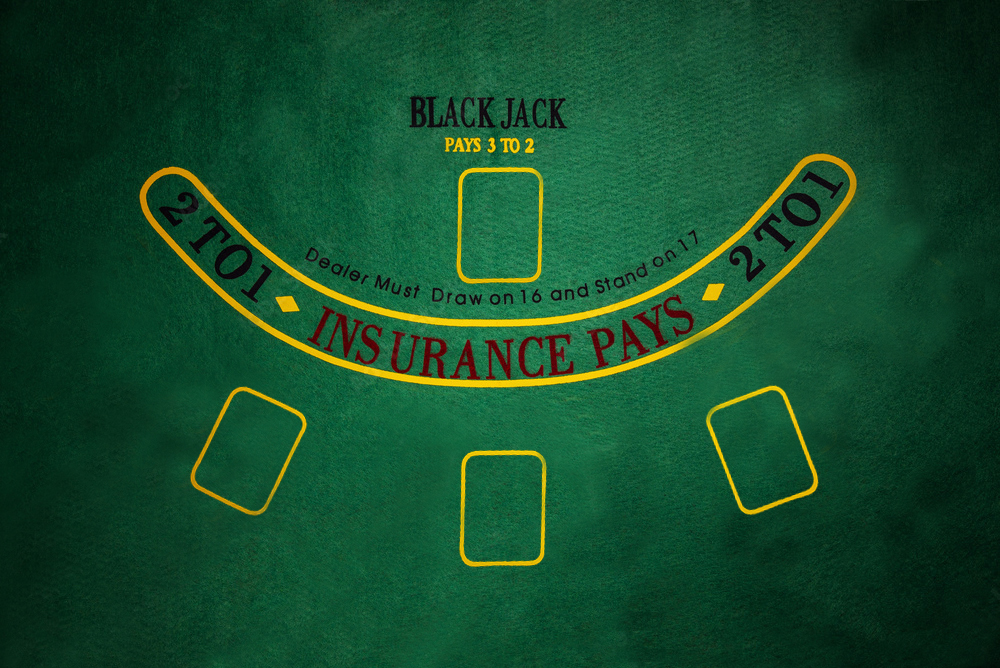
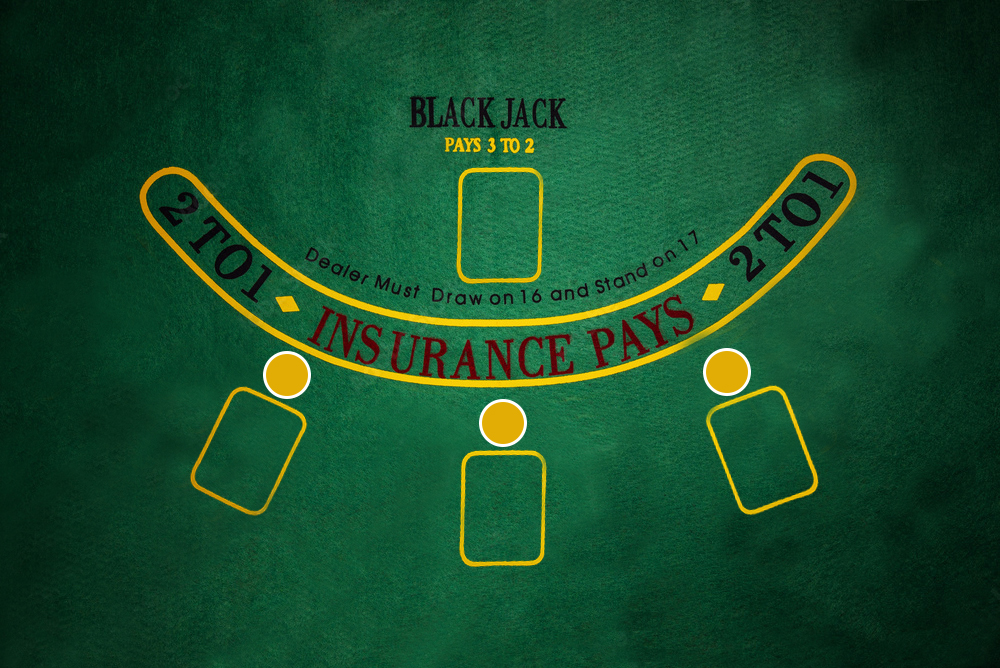
se comienza el sistema de apuestas

Changed region(s): [[0.682, 0.509, 0.775, 0.5988], [0.465, 0.5988, 0.527, 0.6886], [0.248, 0.509, 0.31, 0.5988]]

diff --git a/js/clases.js b/js/clases.js
@@ -70,10 +70,23 @@ class Carta{
         }
         
         girar(){
-            if(this.cara==false){
+            if(this.cara==true){
+            this.cara=false
+            let elemento=document.getElementById(this.id)
+            elemento.style.backgroundImage=`url(${this.srcDorso})`
+            elemento.classList.add("animate__animated")
+            elemento.classList.add("animate__flip")
+            setTimeout(() => {elemento.classList.remove("animate__animated")
+                              elemento.classList.remove("animate__flip")}, 1500);
+              }
+            else if(this.cara==false){
             this.cara=true
-            }
-            else if(this.cara==true){this.cara=false
+            let elemento=document.getElementById(this.id)
+            elemento.style.backgroundImage=`url(${this.srcImagen})`
+            elemento.classList.add("animate__animated")
+            elemento.classList.add("animate__flip")
+            setTimeout(() => {elemento.classList.remove("animate__animated")
+                              elemento.classList.remove("animate__flip")}, 1500);
             }
         }
         }
@@ -84,7 +97,7 @@ class Carta{
     this.manos=[new Mano(1),new Mano(2),new Mano(3),new Mano(4)]
     
     }
-        entregarCarta(mano,baraja){
+        entregarCarta(mano,baraja,cara){
             if(baraja.cartas.length>0){
             let nCartas
             let div
@@ -115,13 +128,22 @@ class Carta{
                }
 
                     let nuevoDiv=document.createElement("div")
-                    nuevoDiv.style.backgroundImage=`url(${nuevaCarta.srcImagen})`
+                    nuevoDiv.setAttribute("id",`${nuevaCarta.id}`)
+                    if(cara){
+                        nuevoDiv.style.backgroundImage=`url(${nuevaCarta.srcImagen})`       
+                    }else if(!cara){
+                        nuevaCarta.cara=false
+                        nuevoDiv.style.backgroundImage=`url(${nuevaCarta.srcDorso})`
+                    }
+                    
                     
                     if(mano==1){
                        nCartas=this.manos[0].cartas.length
                        nuevoDiv.style.left=`${(nCartas-1)*30}%`
                        nuevoDiv.classList.add("animate__animated")    // ToDo:convertir a la funcion animarElemento
                        nuevoDiv.classList.add("animate__backInLeft")
+                       setTimeout(() => {nuevoDiv.classList.remove("animate__animated")
+                                         nuevoDiv.classList.remove("animate__backInLeft")}, 1000);
                        
                     }
                         else if(mano==2){
@@ -129,6 +151,8 @@ class Carta{
                         nuevoDiv.style.left=`${(nCartas-1)*30}%`
                         nuevoDiv.classList.add("animate__animated")
                         nuevoDiv.classList.add("animate__backInDown")
+                        setTimeout(() => {nuevoDiv.classList.remove("animate__animated")
+                                         nuevoDiv.classList.remove("animate__backInDown")}, 1000);
                        
                     }
                     else if(mano==3){
@@ -136,6 +160,8 @@ class Carta{
                         nuevoDiv.style.left=`${(nCartas-1)*30}%`
                         nuevoDiv.classList.add("animate__animated")
                         nuevoDiv.classList.add("animate__backInRight")
+                        setTimeout(() => {nuevoDiv.classList.remove("animate__animated")
+                        nuevoDiv.classList.remove("animate__backInRight")}, 1000);
                         
                     }
                     else if(mano==4){
@@ -143,6 +169,8 @@ class Carta{
                         nuevoDiv.style.left=`${(nCartas-1)*30}%`
                         nuevoDiv.classList.add("animate__animated")
                         nuevoDiv.classList.add("animate__backInDown")
+                        setTimeout(() => {nuevoDiv.classList.remove("animate__animated")
+                        nuevoDiv.classList.remove("animate__backInDown")}, 1000);
                         
                     }
 
@@ -168,11 +196,16 @@ class Carta{
             peso
             id
             cerrada
+            apuestaAbierta
+            apuestaCerrada
+            
             constructor(id){
                 this.cartas=[]
                 this.peso=0
                 this.id=id
                 this.cerrada=true
+                this.apuestaAbierta=0
+                this.apuestaCerrada=0
                 
             }
             alMaso(){
@@ -205,6 +238,10 @@ class Carta{
                 }
                 abrir(){
                     this.cerrada=false
+                }
+
+                sumarApuesta(cantidad){
+this.apuestaAbierta+=cantidad
                 }
             
                 

diff --git a/js/script.js b/js/script.js
@@ -1,6 +1,8 @@
 window.addEventListener("load",pantallaInicial,false)
 let maso;
 let mesa;
+let seleccionApuesta=0
+
 let nodeMesa=document.getElementById("mesa")
 let nodeMano1=document.getElementById("mano1")
 let nodeMano2=document.getElementById("mano2")
@@ -10,6 +12,9 @@ let node10=document.getElementById("apostar10")
 let node100=document.getElementById("apostar100")
 let node500=document.getElementById("apostar500")
 let node1000=document.getElementById("apostar1000")
+let nodeApuestaMano1=document.getElementById("apuestaMano1")
+let nodeApuestaMano2=document.getElementById("apuestaMano2")
+let nodeApuestaMano3=document.getElementById("apuestaMano3")
 
 
 
@@ -26,7 +31,7 @@ crearBoton("Comenzar Partida")
 
 function pedir(mano){
     if(mesa.manos[mano-1].peso<21){
-    mesa.entregarCarta(mano,maso)
+    mesa.entregarCarta(mano,maso,true)
     evaluar();
     resultado(1,mesa.manos[mano-1]);
     }
@@ -96,10 +101,11 @@ function pedir(mano){
 
 
     function plantarse(){   // a partir de aqui, comienza a jugar el programa
-    
+      mesa.manos[3].cartas[0].girar()
     while(mesa.manos[3].peso<17){  // el ciclo termina cuando se cumpla la condicion del reglamneto del juego
-            confirm("La mano del crupier es menor o igual a 17, pide otra carta");
-            mesa.entregarCarta(4,maso);
+            
+            
+            mesa.entregarCarta(4,maso,true);
             evaluar();
             }
             for(let i=0;i<3;i++){
@@ -142,27 +148,27 @@ function pedir(mano){
         function partidaConsoleBlackJack(){          //es la funcion principal del programa
             nodeMesa.removeChild(nodeMesa.lastChild)
             resetearPartida();
-            empezarJuego();
-            
-            /*if(partidaEnProgreso==true){siguienteRonada();} //se utiliza el if para evitar caminos indeseados
-            */}
+            }
 
 
             function empezarJuego(){    //reparte las cartas y evalua la primera mano
 
-                mesa.entregarCarta(1,maso)
+                mesa.entregarCarta(1,maso,true)
                 setTimeout(() => {
-                mesa.entregarCarta(1,maso)    
+                mesa.entregarCarta(1,maso,true)    
                   }, 800);
                   setTimeout(() => {
-                    mesa.entregarCarta(4,maso)    
+                    mesa.entregarCarta(4,maso,false)    
                       }, 1600);
                       setTimeout(() => {
-                        mesa.entregarCarta(4,maso)    
+                        mesa.entregarCarta(4,maso,true)    
                           }, 2400);
-                   
-                evaluar();
-                mesa.manos.forEach(mano => resultado(1,mano));
+                          setTimeout(() => {
+                            evaluar();
+                            mesa.manos.forEach(mano => resultado(1,mano));     
+                              }, 3000);  
+                
+                
                 }
 
 
@@ -194,8 +200,23 @@ function crearBoton(texto){
     botonIniciar.innerHTML=texto
     botonIniciar.addEventListener("click",partidaConsoleBlackJack,false)
     nodeMesa.appendChild(botonIniciar)
-    animarClase("botonIniciar","bounce")
+    animarClase(botonIniciar.id,"bounce")
 }
+
+function seleccionarApuesta(mano){
+  seleccionApuesta=mano
+}
+
+function apostar(apuesta,mano){
+  let nodo=document.getElementById(`apuestaMano${mano+1}`)
+  if(mesa.manos[mano].cerada){mesa.manos[mano].abrir()}
+  mesa.manos[mano].sumarApuesta(apuesta)
+  nodo.innerHTML=mesa.manos[mano].apuestaAbierta + "<br>cdts"
+  
+    
+  }
+  
+
     
 
 

diff --git a/estilos/estilos.css b/estilos/estilos.css
@@ -42,7 +42,7 @@
     
 }
 
-.botonPedir{
+.botonDeal{
     cursor: pointer;
     background-color:darkgreen;
     font-size: 30px;
@@ -174,6 +174,68 @@
     bottom: 1%;
     display: flex;
     align-items: center;
+}
+
+.apuestaMano1{
+    cursor: pointer;
+    font-weight: 900;
+    font-size: 16px;
+    font-family: 'Lucida Sans', 'Lucida Sans Regular', 'Lucida Grande', 'Lucida Sans Unicode', Geneva, Verdana, sans-serif;
+    display: flex;
+    justify-content: center;
+    align-items: center;
+    color: beige;
+    width: 60px;
+    height: 60px;
+    position: absolute;
+    border-radius: 30px;
+    border-style: solid;
+    border-width: 1px;
+    border-color: beige;
+    left: 26.5%;
+    top: 52.9%;
+    text-align: center
+}
+.apuestaMano2{
+    cursor: pointer;
+    font-weight: 900;
+    font-size: 16px;
+    font-family: 'Lucida Sans', 'Lucida Sans Regular', 'Lucida Grande', 'Lucida Sans Unicode', Geneva, Verdana, sans-serif;
+    display: flex;
+    justify-content: center;
+    align-items: center;
+    color: beige;
+    width: 60px;
+    height: 60px;
+    position: absolute;
+    border-radius: 30px;
+    border-style: solid;
+    border-width: 1px;
+    border-color: beige;
+    left: 48%;
+    top: 60.2%;
+    text-align: center
+}
+.apuestaMano3{
+    text-align: center;
+    cursor: pointer;
+    font-weight: 900;
+    font-size: 16px;
+    font-family: 'Lucida Sans', 'Lucida Sans Regular', 'Lucida Grande', 'Lucida Sans Unicode', Geneva, Verdana, sans-serif;
+    display: flex;
+    justify-content: center;
+    align-items: center;
+    color: beige;
+    width: 60px;
+    height: 60px;
+    position: absolute;
+    border-radius: 30px;
+    border-style: solid;
+    border-width: 1px;
+    border-color: beige;
+    left: 70.5%;
+    top: 52.6%;
+    
 }
 
 .mano1{width: 130px;height: 170px;top: 59.5%;left:20.5%;position: absolute;transform: rotate(27deg); cursor: pointer;}

diff --git a/index.html b/index.html
@@ -25,13 +25,18 @@
       <div class="mano1" id="mano1" onclick="pedir(1)"></div>
       <div class="mano2" id="mano2" onclick="pedir(2)" ></div> 
       <div class="mano3" id="mano3" onclick="pedir(3)" ></div>
+      <div id="apuestaMano1" class="apuestaMano1" onclick="seleccionarApuesta(0)">0<br>Cdts</div>
+        <div id="apuestaMano2" class="apuestaMano2" onclick="seleccionarApuesta(1)" >0<br>Cdts</div>
+        <div id="apuestaMano3" class="apuestaMano3" onclick="seleccionarApuesta(2)">0<br>Cdts</div>
       <div class="mano4" id="mano4" ></div>
       <div class="control" id="control">
-        <div id="apostar10" class="botonApostar10">10Cdts</div>
-        <div id="apostar100" class="botonApostar100">100Cdts</div>
-        <div id="apostar500" class="botonApostar500">500Cdts</div>
-        <div id="apostar1000" class="botonApostar1000">1000Cdts</div>
-      <div id="botonPedir" class="botonPedir">Pedir Carta</div>
+        <div id="apostar10" class="botonApostar10" onclick="apostar(10,seleccionApuesta)">10Cdts</div>
+        <div id="apostar100" class="botonApostar100" onclick="apostar(100,seleccionApuesta)">100Cdts</div>
+        <div id="apostar500" class="botonApostar500" onclick="apostar(500,seleccionApuesta)">500Cdts</div>
+        <div id="apostar1000" class="botonApostar1000" onclick="apostar(1000,seleccionApuesta)">1000Cdts</div>
+        
+        
+      <div id="botonDeal" class="botonDeal" onclick="empezarJuego()">Deal</div>
       <div id="botonPlantarse" class="botonPlantarse" onclick="plantarse()">Plantarse</div>
       
       </div>  
